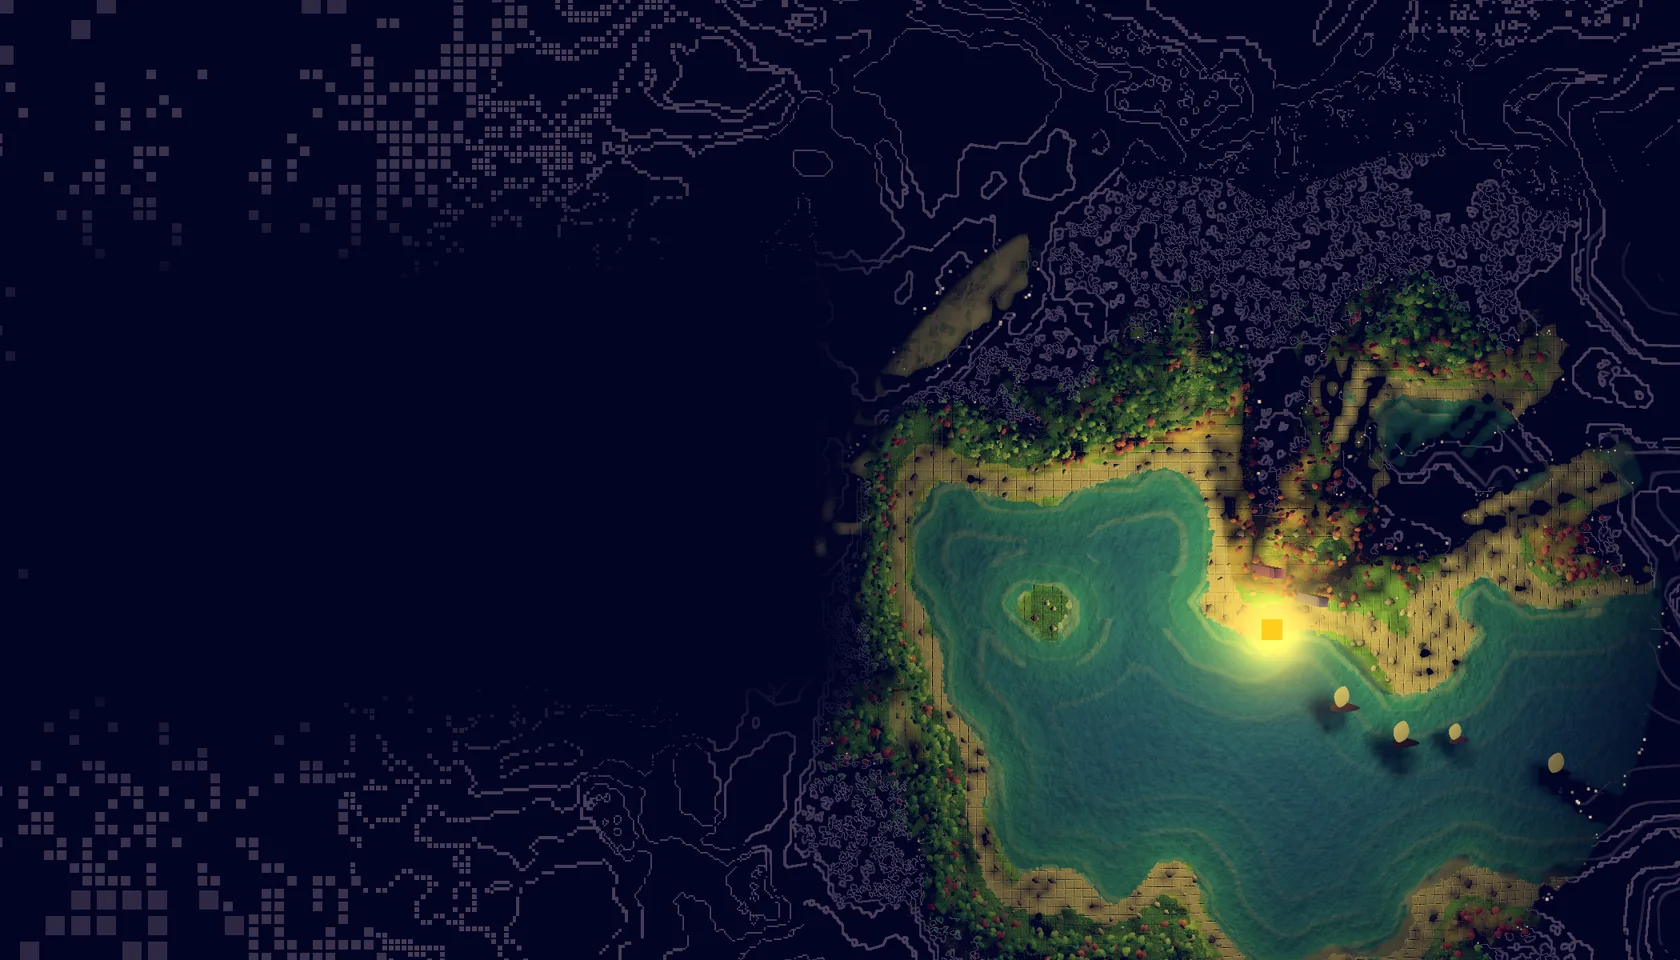
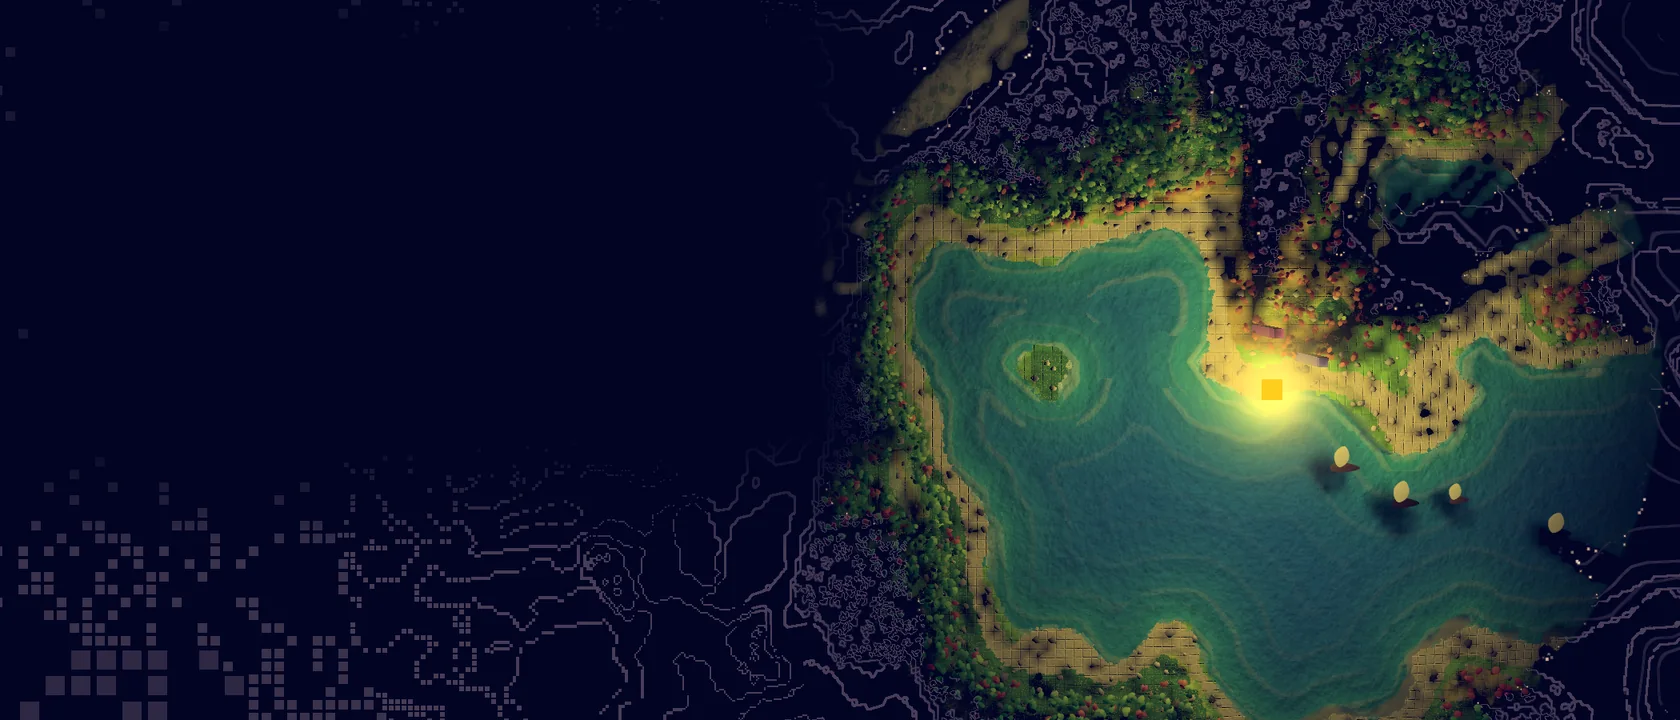
Home: the hero 25% shorter, cut from the top, the words raised into the dark
Claude-Session: https://claude.ai/code/session_01KoGZkDdeKLCRPu5YzpMoDG

diff --git a/_layouts/home.html b/_layouts/home.html
@@ -79,7 +79,7 @@ refactor: true
   }
   .lixel-banner img { display: block; width: 100%; height: auto; }
   .lixel-banner-text {
-    position: absolute; left: 7.4%; top: 50%; transform: translateY(-50%); max-width: 40%;
+    position: absolute; left: 7.4%; top: 36%; transform: translateY(-50%); max-width: 40%;
   }
   .lixel-hero .lixel-banner h1 {
     color: #f0f0f0; font-weight: 300; letter-spacing: 0.02em;
@@ -96,7 +96,7 @@ refactor: true
 
 <section class="lixel-hero">
   <div class="lixel-banner">
-    <img src="{{ '/assets/img/home-hero.webp' | relative_url }}" width="1680" height="960" fetchpriority="high"
+    <img src="{{ '/assets/img/home-hero.webp' | relative_url }}" width="1680" height="720" fetchpriority="high"
          alt="A lamp lights a bay at night; away from the light, the dark breaks into pixels.">
     <div class="lixel-banner-text">
       <h1>Lixel</h1>
